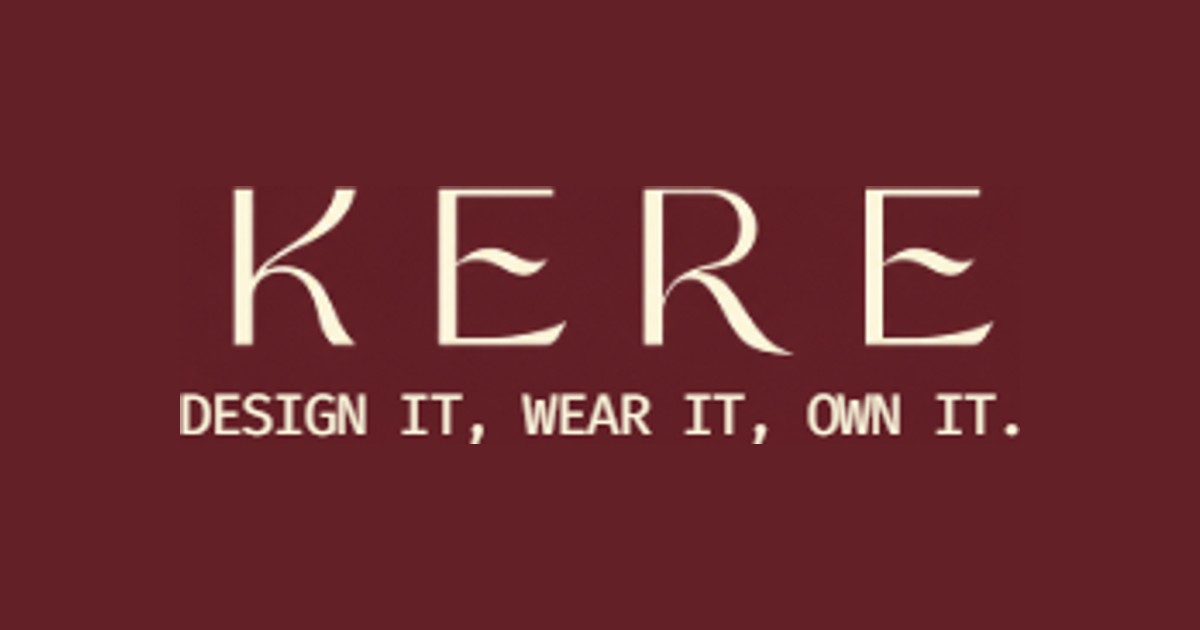
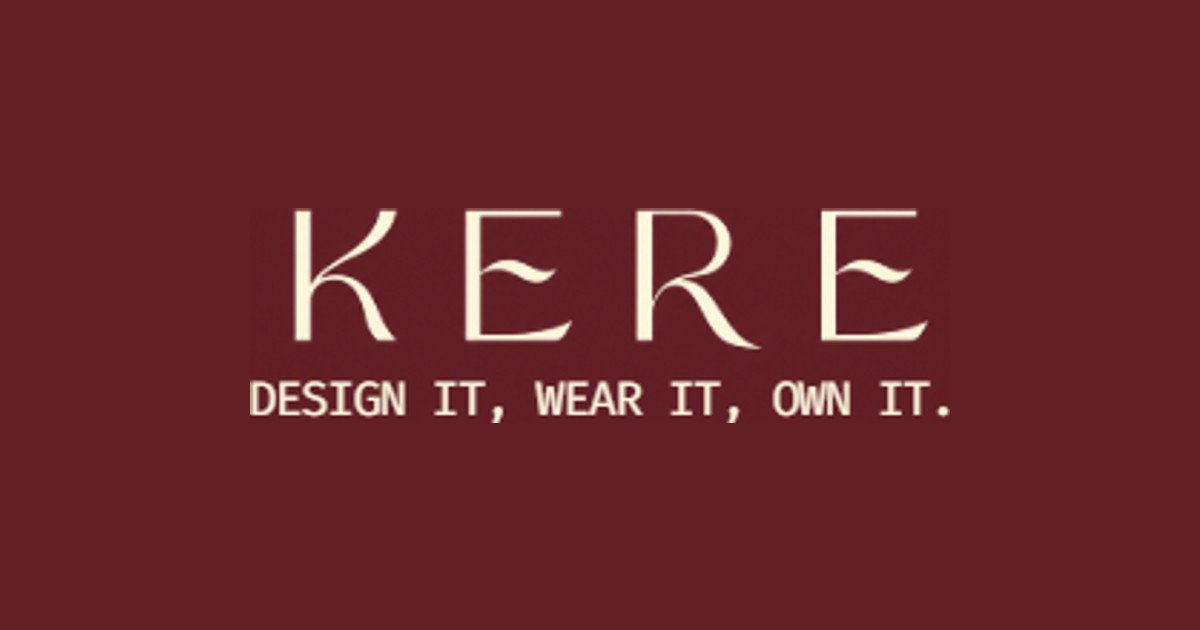
Scale KERE wordmark back to ~58% on social share card
Revert the share card wordmark from ~70% to ~58% width for more breathing
room. Bump og:image / twitter:image cache-buster to ?v=3.

diff --git a/resources/views/app.blade.php b/resources/views/app.blade.php
@@ -27,7 +27,7 @@
         <meta property="og:url"              content="https://kereforyou.com">
         <meta property="og:locale"           content="ka_GE">
         <meta property="og:locale:alternate" content="en_US">
-        <meta property="og:image"            content="https://kereforyou.com/assets/og-image.jpg?v=2">
+        <meta property="og:image"            content="https://kereforyou.com/assets/og-image.jpg?v=3">
         <meta property="og:image:width"      content="1200">
         <meta property="og:image:height"     content="630">
         <meta property="og:image:alt"        content="Kere — Custom Clothing Marketplace">
@@ -36,7 +36,7 @@
         <meta name="twitter:card"        content="summary_large_image">
         <meta name="twitter:title"       content="Kere — Custom Clothing Marketplace | Tbilisi, Georgia">
         <meta name="twitter:description" content="Connect with expert Georgian tailors for bespoke clothing. Handcrafted in Tbilisi.">
-        <meta name="twitter:image"       content="https://kereforyou.com/assets/og-image.jpg?v=2">
+        <meta name="twitter:image"       content="https://kereforyou.com/assets/og-image.jpg?v=3">
 
         @viteReactRefresh
         @vite(['resources/css/app.css', 'resources/js/App.tsx'])
